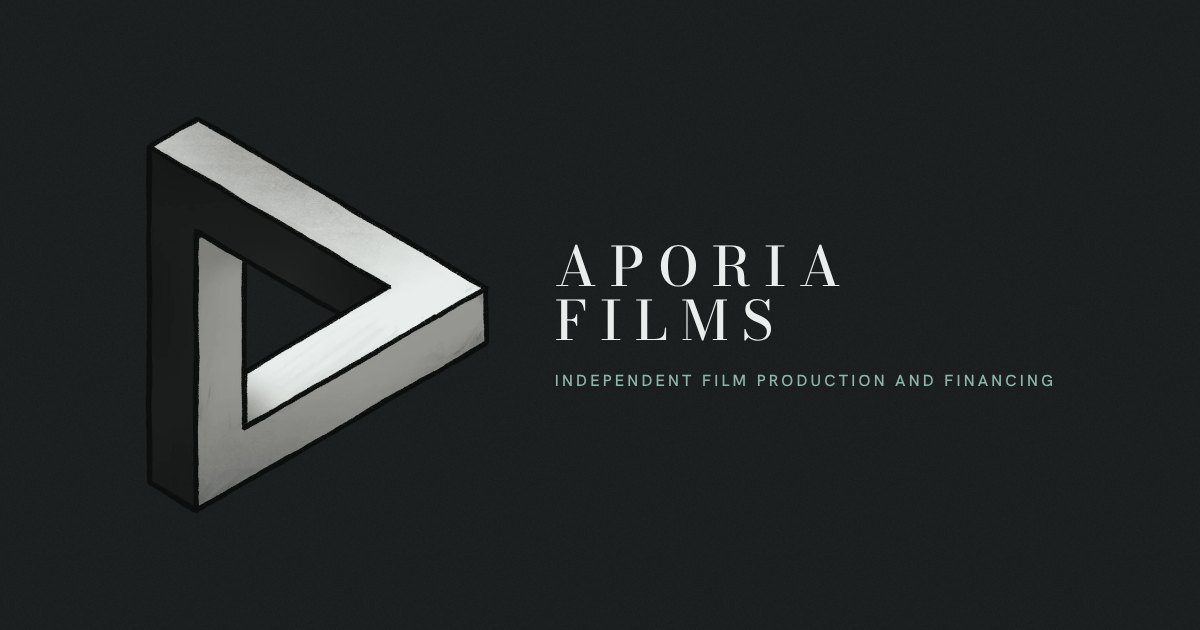
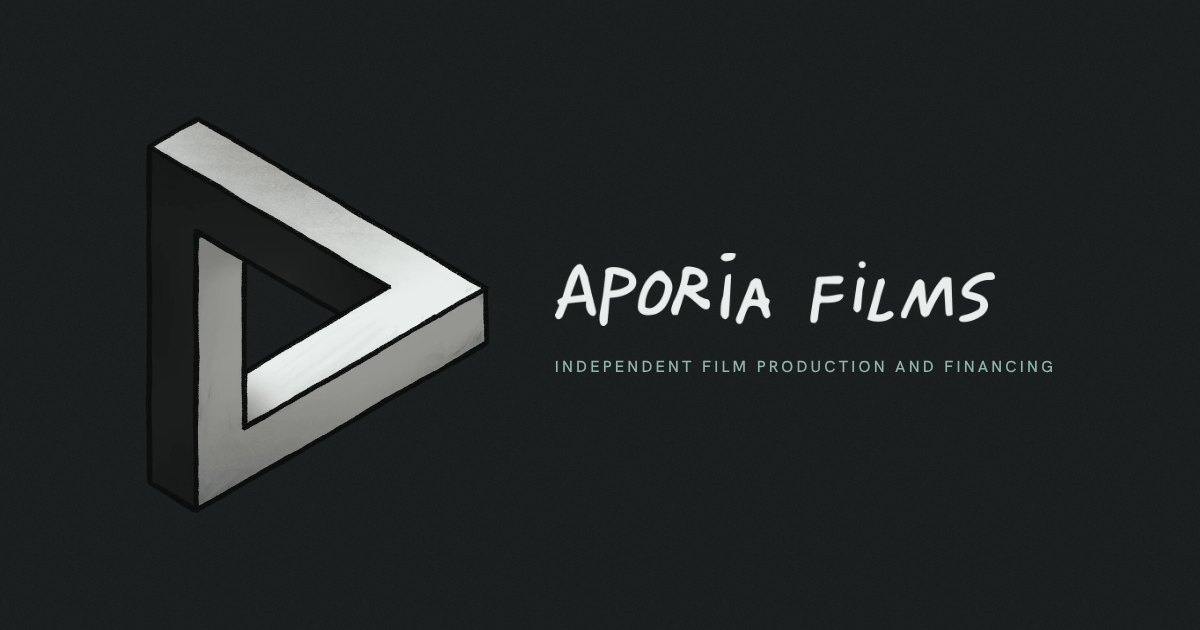
Bring back the handwritten name on Home; improve the phone layout
- Designer's handwritten wordmark under the Home logo, written on in the intro;
  link-preview image updated to match
- Phones: hero tagline and city stacked and centred, footer stacked at 11px,
  larger tap areas for Scroll and Instagram
- Founder photo boxes hidden until there is a photo

Claude-Session: https://claude.ai/code/session_017u5Dtq1XXmARg2gyNxp9Kd

Changed region(s): [[0.4625, 0.3921, 0.6475, 0.5429], [0.4625, 0.573, 0.8942, 0.6333], [0.6783, 0.3921, 0.8325, 0.5127]]

diff --git a/public/styles.css b/public/styles.css
@@ -100,7 +100,8 @@ main, .footer { position: relative; z-index: 1; }
 .hero-mark { position: relative; width: 300px; max-width: 70vw; aspect-ratio: 640 / 738; }
 .mark-img { width: 100%; height: 100%; }
 .mark-cv { position: absolute; inset: 0; width: 100%; height: 100%; pointer-events: none; }
-.hero-wordmark { margin: 30px -.24em 0 0; font: 500 30px/1.1 var(--display); letter-spacing: .24em; text-transform: uppercase; }
+.hero-wordmark { margin-top: 30px; line-height: 0; }
+.hero-wordmark img { width: 340px; max-width: 78vw; height: auto; }
 .hero-intro:empty { display: none; }
 .hero-intro { margin-top: 32px; max-width: 520px; min-height: 3.1em; /* reserves two lines until site.json arrives */ font-size: 18px; line-height: 1.55; color: var(--text-2); font-weight: 300; }
 .hero-strip {
@@ -355,12 +356,16 @@ h2 { font-weight: 400; letter-spacing: -.01em; line-height: 1.08; }
   .founders { row-gap: 64px; }
   .section-foot { margin-top: 40px; }
   .hero-mark { width: 200px; }
-  .hero-wordmark { font-size: 21px; margin-top: 22px; }
+  .hero-wordmark { margin-top: 22px; }
+  .hero-wordmark img { width: 240px; }
   .hero-intro { font-size: 17px; }
-  .hero-strip { font-size: 10px; letter-spacing: .1em; gap: 12px; }
-  .hero-strip > * { flex: none; }
-  .hero-strip > :nth-child(2) { flex: 1; text-align: center; }
-  .footer { font-size: 10px; letter-spacing: .1em; }
+  /* phones: tagline over city, centred; no "Scroll" (nobody needs telling on a phone) */
+  .hero-strip { flex-direction: column; gap: 8px; font-size: 11px; letter-spacing: .14em; bottom: max(28px, calc(env(safe-area-inset-bottom, 0px) + 16px)); }
+  .hero-strip > *, .hero-strip > :first-child, .hero-strip > :last-child { flex: none; text-align: center; }
+  .hero-strip > :first-child { order: 2; }
+  .hero-strip > :last-child { display: none; }
+  .footer { font-size: 11px; letter-spacing: .12em; grid-template-columns: 1fr; justify-items: center; gap: 12px; text-align: center; padding-bottom: max(28px, calc(env(safe-area-inset-bottom, 0px) + 16px)); }
+  .footer :last-child { text-align: center; }
   .section { padding: 88px var(--gutter); }
   .section-head h2 { font-size: 44px; }
   .section-head > .label { display: none; }
@@ -380,3 +385,8 @@ h2 { font-weight: 400; letter-spacing: -.01em; line-height: 1.08; }
   *, *::before, *::after { transition-duration: 0s !important; animation: none !important; }
   .js .reveal { opacity: 1; transform: none; }
 }
+
+/* Comfortable tap targets for small links */
+.socials a { display: inline-flex; align-items: center; min-height: 44px; }
+.hero-strip a { padding-block: 15px; margin-block: -15px; } /* bigger tap area, same layout */
+.founder:not(:has(.founder-photo)) .founder-name { margin-top: 0; }

diff --git a/public/app.js b/public/app.js
@@ -92,7 +92,8 @@
     const anims = [];
     const animate = (el, frames, opts) => { if (!el) return; anims.push(el.animate(frames, { fill: 'both', ...opts })); };
     // 2.8s: the name comes in; 3.3s: the copy and the menu
-    animate($('.hero-wordmark'), [{ opacity: 0, letterSpacing: '.34em', filter: 'blur(4px)' }, { opacity: 1, letterSpacing: '.24em', filter: 'blur(0)' }], { delay: 2800, duration: 800, easing: 'cubic-bezier(.2,.7,.2,1)' });
+    // the handwritten name is written on, left to right
+    animate($('.hero-wordmark'), [{ opacity: 1, clipPath: 'inset(0 100% 0 0)' }, { opacity: 1, clipPath: 'inset(0 0 0 0)' }], { delay: 2800, duration: 900, easing: 'cubic-bezier(.45,.05,.4,1)' });
     $$('.hero-intro, .hero-strip, .nav').forEach((el) => animate(el, [{ opacity: 0.01 }, { opacity: 1 }], { delay: 3300, duration: 450, easing: 'ease-out' }));
 
     let done = false, raf = 0, t0 = 0;
@@ -136,7 +137,7 @@
     fill('#about-long', story.map((p) => `<p>${esc(p)}</p>`).join(''));
     fill('#founders', founders.map((f) => `
       <li class="founder">
-        <div class="founder-photo">${f.photo ? `<img src="${esc(f.photo)}" alt="Portrait of ${esc(f.name)}" width="800" height="800" loading="lazy">` : '<span class="label">[Photo]</span>'}</div>
+        ${f.photo ? `<div class="founder-photo"><img src="${esc(f.photo)}" alt="Portrait of ${esc(f.name)}" width="800" height="800" loading="lazy"></div>` : ''}
         <h3 class="founder-name">${esc(f.name)}</h3>
         <p class="label">${esc(f.title)}</p>
         ${f.bio ? `<p class="founder-bio">${esc(f.bio)}</p>` : ''}

diff --git a/public/index.html b/public/index.html
@@ -68,7 +68,7 @@
         <img class="mark-img" src="/assets/mark-hero.webp" alt="Aporia Films logo" width="640" height="738" fetchpriority="high">
         <canvas class="mark-cv" aria-hidden="true"></canvas>
       </div>
-      <h1 class="hero-wordmark">Aporia Films</h1>
+      <h1 class="hero-wordmark"><img src="/assets/wordmark.webp" alt="Aporia Films" width="1000" height="168"></h1>
       <p class="hero-intro" data-site="heroIntro"></p>
       </div>
       <div class="hero-strip label">

diff --git a/DECISIONS.md b/DECISIONS.md
@@ -25,7 +25,7 @@ Once the domain was connected, the founders wanted it to show only a plain "Comi
 Chosen by the founders over three rounds of side-by-side options (logo, type, colour, texture, opening animation).
 
 - **Palette: Nitrate.** Cool charcoal ground `#1b1e1e` with one accent, the faded cyan of old film stock (`#8fb5ad`). The accent is used sparingly: the active menu link, the tagline, film status and the small section labels. Because the mottled texture lightens parts of the background, secondary text (`#d0d6d3`), labels (`#c5cac9`) and the accent (`#b5cec9`) are lighter than the palette's swatches: they pass 4.5:1 on 90% of the background and stay near 4:1 on the very lightest patches. Main text passes everywhere.
-- **Type: Didone.** Bodoni Moda for the name, headings, menu and founder names; Hanken Grotesk for body text and the small uppercase labels. Both come from Google Fonts. The hand-lettered wordmark was dropped because its loose marker letters clashed with set type; the name is now typeset in Bodoni capitals, letter-spaced like a title card, and the H1 on Home is that text.
+- **Type: Didone.** Bodoni Moda for the name, headings, menu and founder names; Hanken Grotesk for body text and the small uppercase labels. Both come from Google Fonts. The designer's hand-lettered wordmark is the name under the Home logo (`assets/wordmark.webp`, recoloured to the text colour; it is the H1, with alt text "Aporia Films"). It was briefly replaced by typeset Bodoni capitals and restored at the founders' request. In the intro it is written on from left to right.
 - **Home logo: the designer's sketch, refined.** `assets/mark-hero.webp` starts from `Logo Only - Sketch.png`, warped onto the exact geometry of the mark. The pencil hatching at the inner top crease and the bottom crease was smoothed out, the dark side was given a soft, even tone like the other two sides, and the uneven painted outline was replaced by one consistent, slightly wobbly charcoal line on every edge. Its greys are then mapped onto the site's tones. It is always the full triangle (the earlier floating-cube version and its scroll button were removed).
 - **Small logo: `assets/mark.svg`.** The designer's three-tone "Clean" mark, which the handbook recommends for small sizes, drawn as a vector with the full triangle, tip included. Its black side is lifted to a dark grey (`#444847`) so all three sides read on the charcoal. Used in the menu bar and footer.
 - **Tab icons.** `favicon.svg`, `favicon.ico`, `assets/favicon-32.png` and `apple-touch-icon.png` put the same mark on a small square in the ground colour, so it reads on both light and dark browser tabs.

diff --git a/CLAUDE.md b/CLAUDE.md
@@ -37,7 +37,7 @@ You are probably helping Andy or Javi Arango, the founders of Aporia Films. They
   - `title`: role, such as "Founding Partner".
   - `email`: their address, or `null` to show none. A founder's address appears in the Contact sections (labelled with their name) and under their bio on /about. Currently both are `null`, so only `generalEmail` is shown.
   - `bio`: one paragraph for /about, or `null` for none (current setting).
-  - `photo`: `null` until there is a photo, then a path such as `"/assets/founders/andy.jpg"`.
+  - `photo`: `null` until there is a photo (no photo box is shown), then a path such as `"/assets/founders/andy.jpg"`.
 
 ### films.json keys
 
